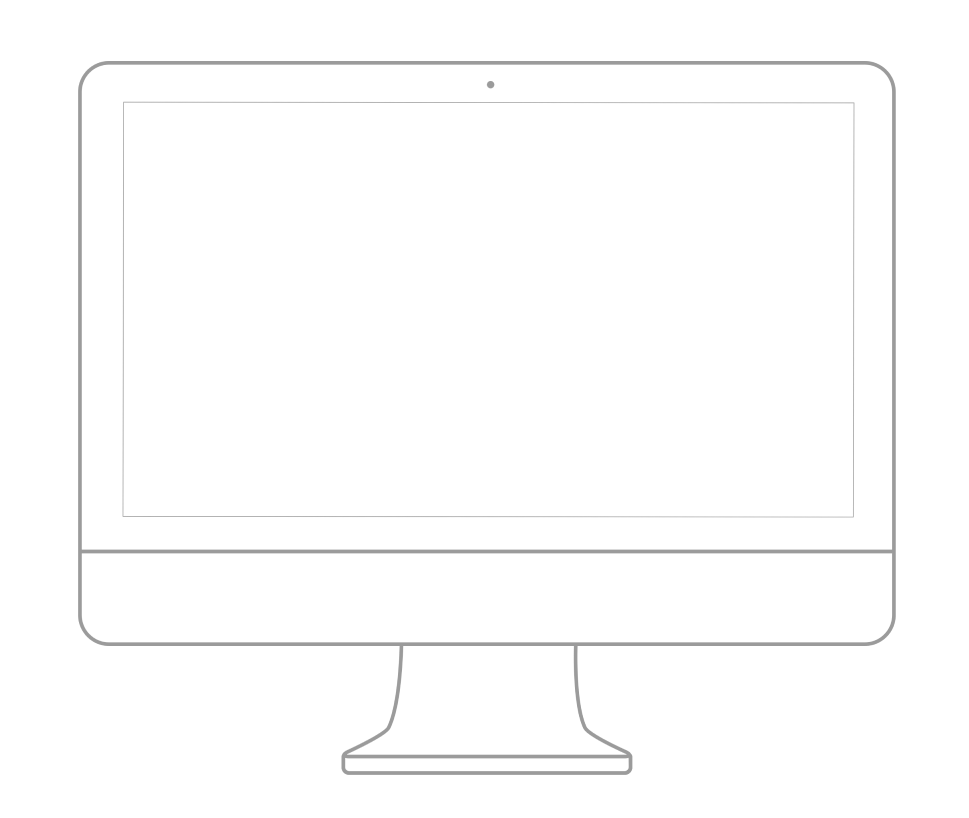
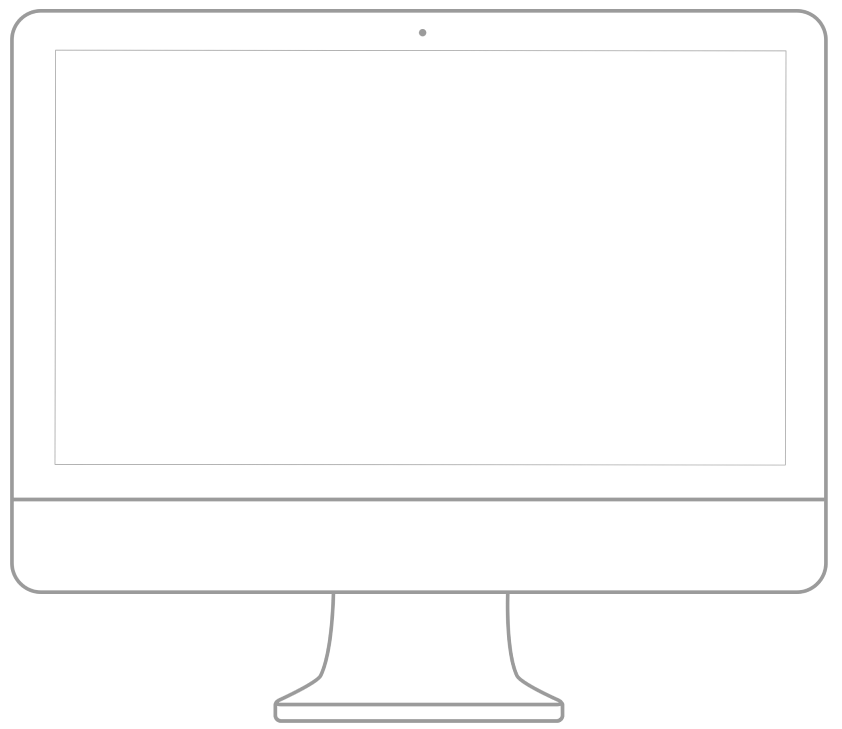
hover works

Changed region(s): [[0.0, 0.0, 0.9881, 0.9959], [0.1235, 0.6036, 0.1544, 0.6337], [0.1235, 0.1207, 0.1544, 0.1509]]

diff --git a/src/Projects/ProjectComponent.js b/src/Projects/ProjectComponent.js
@@ -1,4 +1,4 @@
-import React from 'react';
+import React, {useState} from 'react';
 import './Projects.css';
 import fourthProject from '../img/fourthProject.png';
 import bcounter from '../img/bcounter.png';
@@ -10,11 +10,23 @@ import firstProject from '../img/firstproject.png';
 // need to get div to move on imac pic hover
 
 function ProjectComponent() {
+
+  // style = object 
+    // object is open? 
+
+  const [isOpen, setOpen] = useState(false);
+  console.log(isOpen);
+
   return (
     <div className='allProjectComponent'>
-      <div className='projectComponent1'>
-        <div className='imac-with-project'>
-          <div className='first-overlay'>
+      <h1 className='projects'>Projects</h1>
+      <p className='projects-line'>___________________________________</p>
+      <div className='projectComponent1' >
+        <div className='imac-with-project'> 
+          <div className='first-overlay' style={isOpen ? {left: "0"} : {}} 
+            onMouseEnter={() => setOpen(true)}
+            onMouseLeave={() => setOpen(false)}
+            >
           <br /><br /><br /><br /><br /><br /><br /><br />
             <h1 className='title-application'>Full Stack Calendar Scheduling Application</h1>
             <p className='title-description'>Lorem ipsum dolor sit amet, consectetur adipiscing elit, sed do eiusmod tempor incididunt ut labore et dolore magna aliqua. 
@@ -22,18 +34,23 @@ function ProjectComponent() {
               Duis aute irure dolor in reprehenderit in voluptate velit esse cillum dolore eu fugiat nulla pariatur. 
               Excepteur sint occaecat cupidatat non proident, sunt in culpa qui officia deserunt mollit anim id est laborum.</p>
           </div>
-          <h1 className='projects'>Projects</h1>
-          <p className='projects-line'>___________________________________</p>
-          <div className='images'>
+          <div className='images'
+          // onMouseEnter={() => setOpen(true)}
+          // onMouseLeave={() => setOpen(false)}
+          >
             <img
               src={imac}
               alt='imac'
               className='imac'
+              onMouseEnter={() => setOpen(true)}
+              onMouseLeave={() => setOpen(false)}
             ></img>
             <img
               src={fourthProject}
               alt='fourth-project-pic'
               className='fourth-project-pic'
+              onMouseEnter={() => setOpen(true)}
+              onMouseLeave={() => setOpen(false)}
             ></img>
           </div>
         </div>

diff --git a/src/Projects/Projects.css b/src/Projects/Projects.css
@@ -1,23 +1,24 @@
 .fourth-project-pic {
   position: absolute;
-  top: 21%;
+  top: 13%;
   right: 24%;
   width: 725px;
   height: 410px;
 }
 
 .first-overlay {
-  width: 100px;
+  display: flex;
+  justify-content: center;
+  left: -100%;
+  width: 800px;
   height: 740px;
-  margin-top: 35px;
-  transition: width 1s;
+  margin-top: 50px;
+  transition: all 500ms ease-in-out;
   position: absolute;
-  /* background: rgba(24, 36, 40, 0.95); */
-  background: red;
+  background: rgba(24, 36, 40, 0.95);
   z-index: 99 !important;
   color: white;
   overflow-x: hidden;
-  display: none;
 }
 
 /* .first-overlay:hover {
@@ -33,6 +34,7 @@
 
 .title-description {
   margin-top: 20%;
+  padding: 0 2rem;
 }
 
 .bcounter {
@@ -59,10 +61,6 @@
   margin-left: auto;
   margin-right: auto;
 }
-
-/* .imac:hover {
-   background: red;
-} */
 
 .imac-with-project {
   position: relative;

diff --git a/src/Projects/ProjectContainer.js b/src/Projects/ProjectContainer.js
@@ -2,8 +2,9 @@ import React from 'react';
 import ProjectComponent from './ProjectComponent';
 
 function ProjectContainer() {
+
   return (
-      <ProjectComponent />
+    <ProjectComponent />
   )
 }
 

diff --git a/src/App.css b/src/App.css
@@ -4,6 +4,11 @@ html {
   scroll-behavior: smooth;
 }
 
+body {
+  margin: 0;
+  padding: 0;
+}
+
 .App {
   font-family: 'Roboto', sans-serif;
 }
